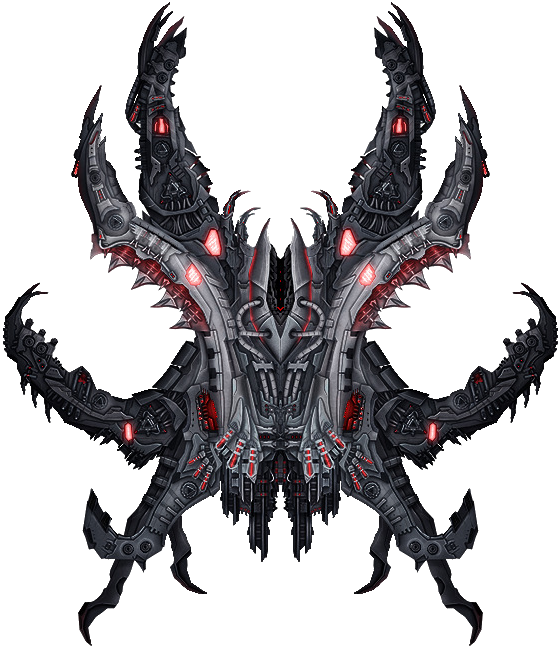
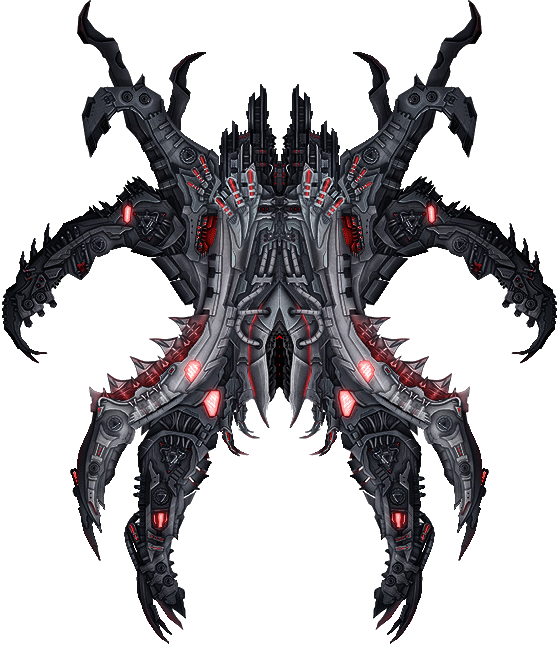
Our first boss

diff --git a/index.html b/index.html
@@ -28,7 +28,12 @@
 	var stage, queue, background, player, bullet;
 	var enemy01;
 	
+	//Basic Bullet Stats
 	var b01_stats = {offSetX:30, offSetY:30, damage:10, scaleX: 1.3, scaleY: 1.3}
+	
+	
+	//Boss 01 Stats
+	var boss_stats = {offSetX:30, offSetY:30, damage:10, scaleX: 0.5, scaleY: 0.5}
 	
 	//player status
 	
@@ -42,9 +47,12 @@
 			{id:"background", src:"images/background.png"},
 			{id:"player", src:"images/player.png"},
 			{id:"bullet01", src:"images/bullet01.png"},
+			{id:"bullet02", src:"images/bullet02.png"},
 			{id:"enemy01", src:"images/spaceship01.png"},
 			{id:"enemy02", src:"images/spaceship02.png"},
-			{id:"enemy03", src:"images/spaceship03.png"}
+			{id:"enemy03", src:"images/spaceship03.png"},
+			{id:"boss", src:"images/boss.png"}
+			
 		]);	
 		
 		function loadComplete() {
@@ -74,6 +82,18 @@
 			stage.addChild(player);
 			window.onkeydown = movePlayer;
 			window.onkeyup = stopPlayer;
+			
+			var img = queue.getResult("boss");
+			boss = new createjs.Bitmap(img);
+			boss.name = "boss";
+			boss.x = 250;
+			boss.y = 10;
+			boss.scaleX = boss_stats.scaleX;
+			boss.scaleY = boss_stats.scaleY;
+			stage.addChild(boss);
+			
+			
+			/*
 			
 			// 0, 160, 320, 480, 640
 			
@@ -126,6 +146,7 @@
 			enemy01.x = 640;
 			enemy01.y = 150;
 			stage.addChild(enemy01);
+			*/
 			
 		}
 		
@@ -237,7 +258,7 @@
 			bullet.x = player.x + b01_stats.offSetX;
 			bullet.y = player.y - b01_stats.offSetY;
 			stage.addChild(bullet);
-			time  = Math.abs((bullet.y - (-500) ) / 1);
+			time  = Math.abs((bullet.y - (-50) ) / 200);
 			console.log("Time: "+time);
 			console.log("bulletY: "+bullet.y);
 			createjs.Tween.get(bullet).to({y:-250}, time);
